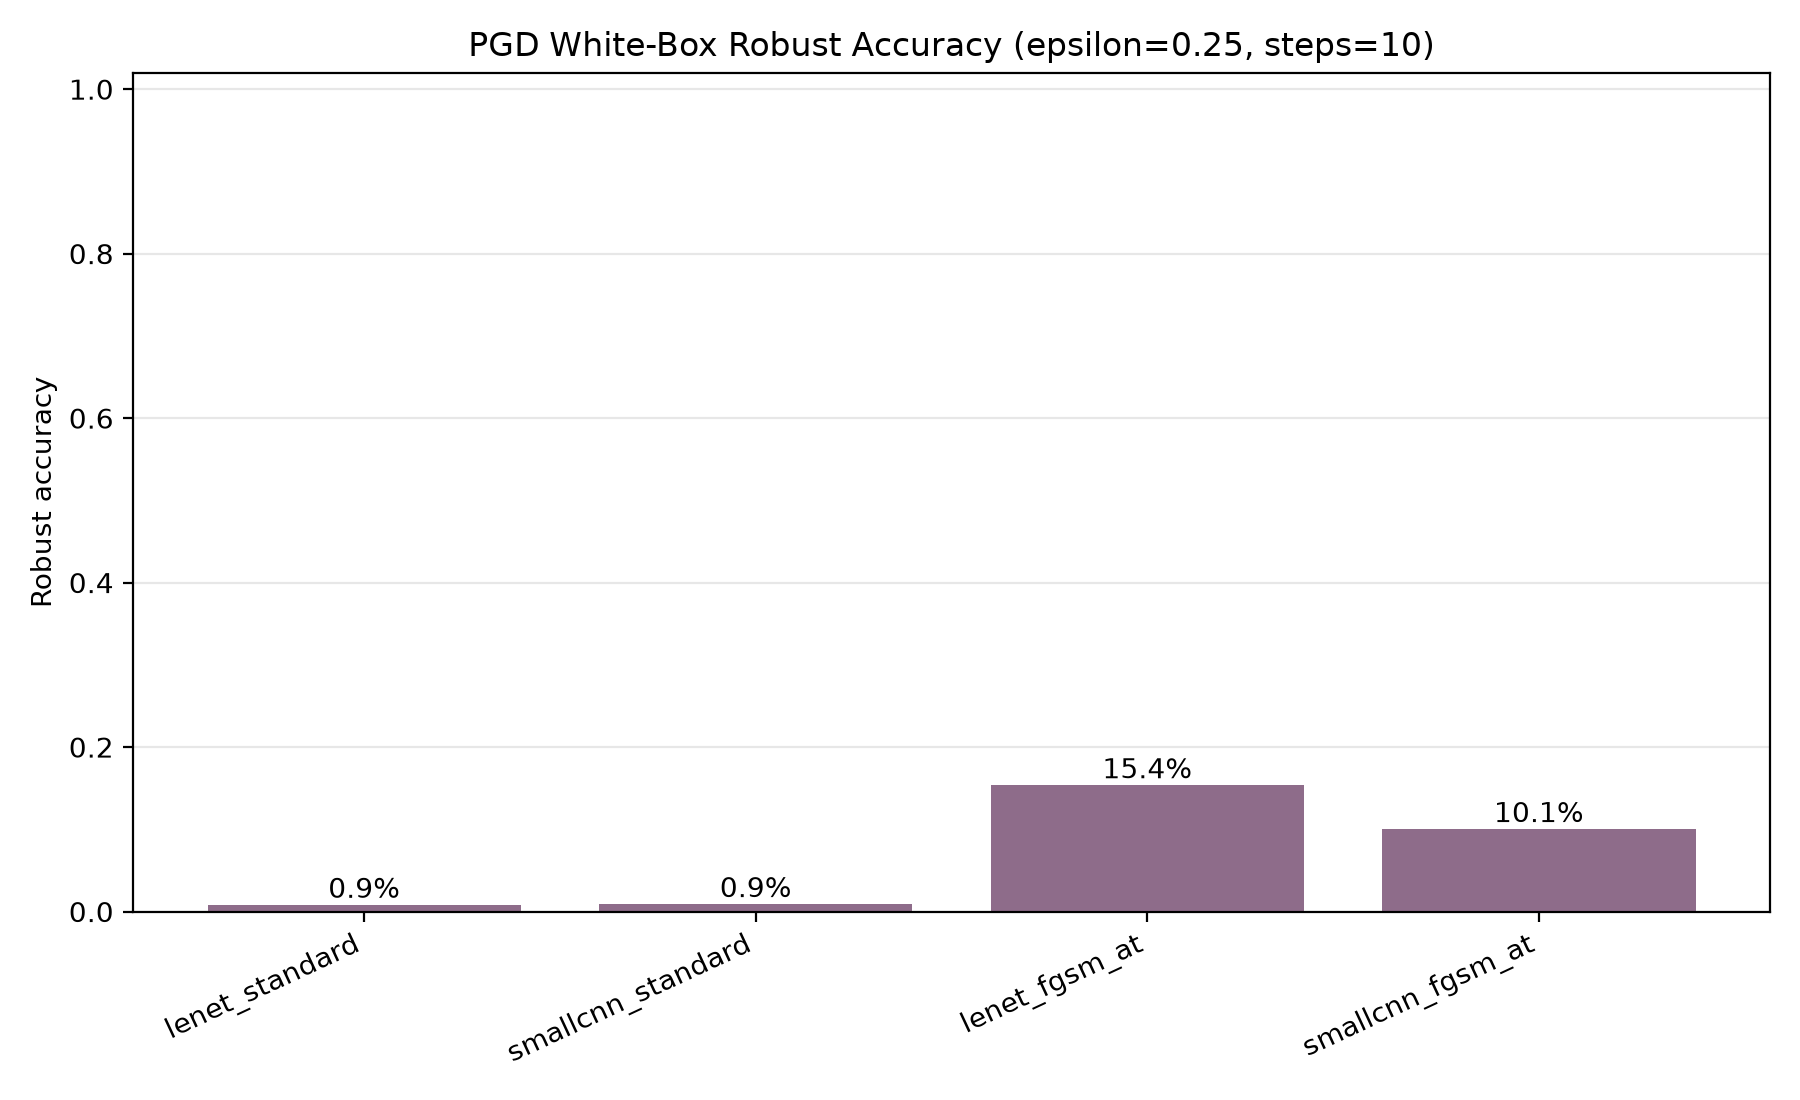
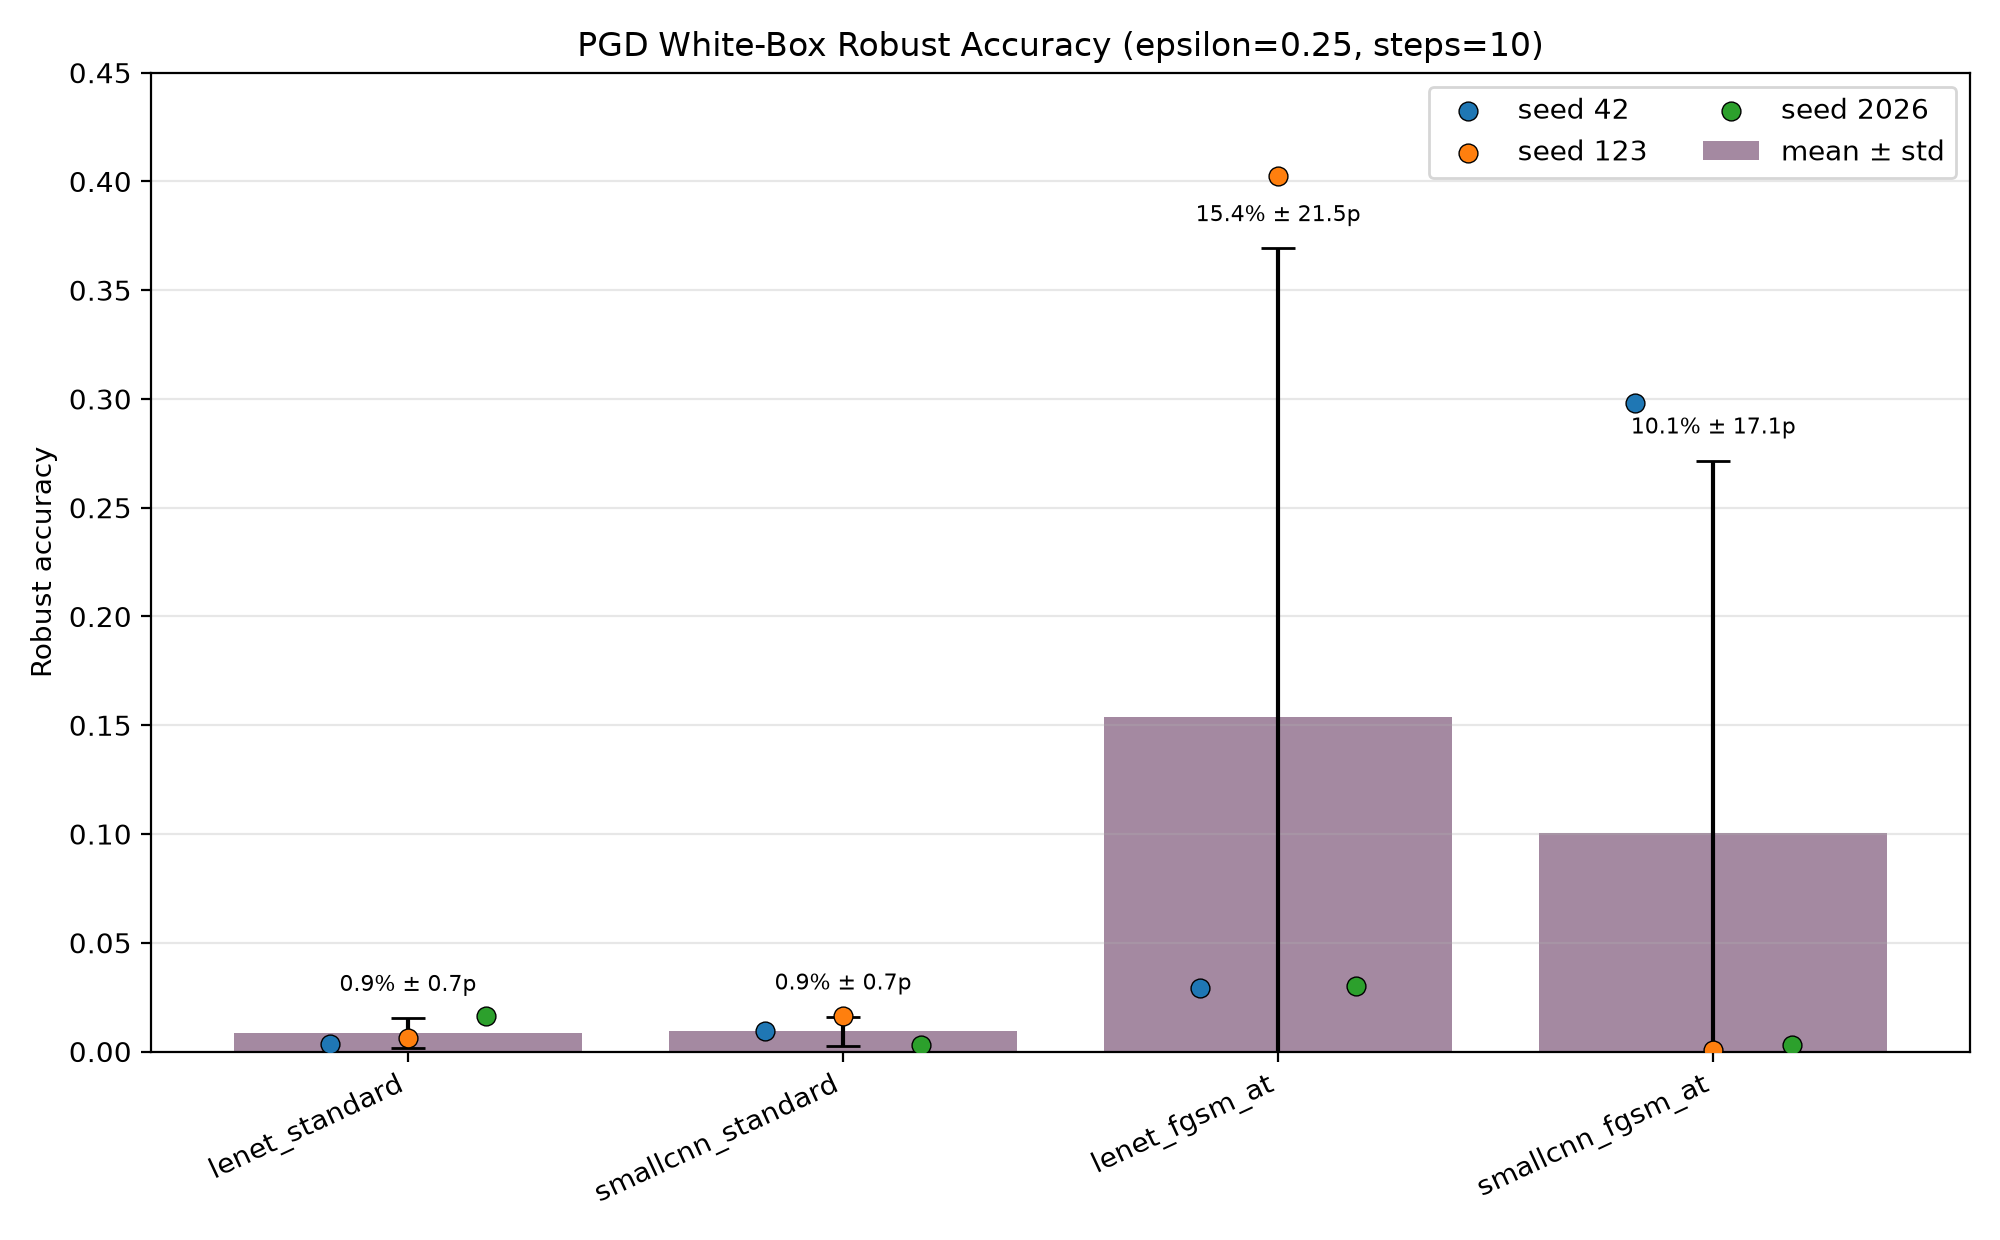
docs: improve report and PGD visualization

diff --git a/src/adversarial_mnist/visualization.py b/src/adversarial_mnist/visualization.py
@@ -233,33 +233,60 @@ def plot_pgd_whitebox_bar(
     pgd_csv: str | Path,
     output_path: str | Path,
 ) -> None:
-    """Plot PGD white-box robust accuracy as a bar chart."""
+    """Plot PGD white-box robust accuracy with seed points and std error bars."""
     pgd_source = _require_file(pgd_csv)
     pgd = pd.read_csv(pgd_source)
-    _require_columns(pgd, {"model", "robust_accuracy", "epsilon", "pgd_steps"}, pgd_source)
-    pgd_mean = pgd.groupby("model")["robust_accuracy"].mean().reindex(MODEL_ORDER)
-    models = [model_key for model_key in MODEL_ORDER if model_key in pgd_mean.index]
+    _require_columns(pgd, {"model", "seed", "robust_accuracy", "epsilon", "pgd_steps"}, pgd_source)
+    stats = pgd.groupby("model")["robust_accuracy"].agg(["mean", "std"]).reindex(MODEL_ORDER)
+    models = [model_key for model_key in MODEL_ORDER if model_key in stats.index]
+    means = [float(stats.loc[model_key, "mean"]) for model_key in models]
+    stds = [float(stats.loc[model_key, "std"]) if not pd.isna(stats.loc[model_key, "std"]) else 0.0 for model_key in models]
     epsilon = float(pgd["epsilon"].iloc[0])
     steps = int(pgd["pgd_steps"].iloc[0])
+    x_positions = np.arange(len(models))
 
     output = Path(output_path)
     ensure_dir(output.parent)
-    plt.figure(figsize=(9, 5.5))
-    bars = plt.bar(models, [pgd_mean[model_key] for model_key in models], color="#8e6c8a")
+    plt.figure(figsize=(10, 6.2))
+    bars = plt.bar(
+        x_positions,
+        means,
+        yerr=stds,
+        capsize=6,
+        color="#8e6c8a",
+        alpha=0.8,
+        label="mean ± std",
+    )
+    seeds = sorted(pgd["seed"].unique())
+    offsets = np.linspace(-0.18, 0.18, num=len(seeds)) if len(seeds) > 1 else np.array([0.0])
+    for offset, seed in zip(offsets, seeds, strict=True):
+        seed_rows = pgd[pgd["seed"] == seed].set_index("model")
+        values = [float(seed_rows.loc[model_key, "robust_accuracy"]) for model_key in models]
+        plt.scatter(
+            x_positions + offset,
+            values,
+            s=46,
+            edgecolors="black",
+            linewidths=0.5,
+            label=f"seed {seed}",
+            zorder=3,
+        )
     plt.ylabel("Robust accuracy")
-    plt.ylim(0.0, 1.02)
+    upper = max(0.45, max(mean + std for mean, std in zip(means, stds, strict=True)) + 0.08)
+    plt.ylim(0.0, min(1.02, upper))
     plt.title(f"PGD White-Box Robust Accuracy (epsilon={epsilon:g}, steps={steps})")
-    plt.xticks(rotation=25, ha="right")
+    plt.xticks(x_positions, models, rotation=25, ha="right")
     plt.grid(axis="y", alpha=0.3)
-    for bar, model_key in zip(bars, models, strict=True):
-        value = float(pgd_mean[model_key])
-        label = "NaN" if math.isnan(value) else f"{value * 100:.1f}%"
+    plt.legend(ncol=2)
+    for bar, mean, std in zip(bars, means, stds, strict=True):
+        label = f"{mean * 100:.1f}% ± {std * 100:.1f}p"
         plt.text(
             bar.get_x() + bar.get_width() / 2,
-            0.0 if math.isnan(value) else value,
+            mean + std + 0.01,
             label,
             ha="center",
             va="bottom",
+            fontsize=8,
         )
     plt.tight_layout()
     plt.savefig(output, dpi=200)
@@ -494,7 +521,7 @@ def generate_figures_index(figures_dir: str | Path, output_path: str | Path) -> 
         "robustness_curve.png": "FGSM epsilon별 robust accuracy 곡선",
         "clean_robust_comparison.png": "clean accuracy와 epsilon=0.25 FGSM robust accuracy 비교",
         "clean_accuracy_retention.png": "FGSM adversarial training 모델의 clean accuracy retention",
-        "pgd_whitebox.png": "PGD L-infinity white-box robust accuracy 비교",
+        "pgd_whitebox.png": "PGD L-infinity white-box robust accuracy 비교. 평균, 표준편차, seed별 점을 함께 표시",
         "adversarial_examples.png": "원본, FGSM, PGD 이미지 예시",
     }
     lines = ["# Figure Index", ""]

diff --git a/results/figures/figure_index.md b/results/figures/figure_index.md
@@ -20,7 +20,7 @@ clean accuracy와 epsilon=0.25 FGSM robust accuracy 비교
 
 ## pgd_whitebox.png
 
-PGD L-infinity white-box robust accuracy 비교
+PGD L-infinity white-box robust accuracy 비교. 평균, 표준편차, seed별 점을 함께 표시
 
 ![](pgd_whitebox.png)
 